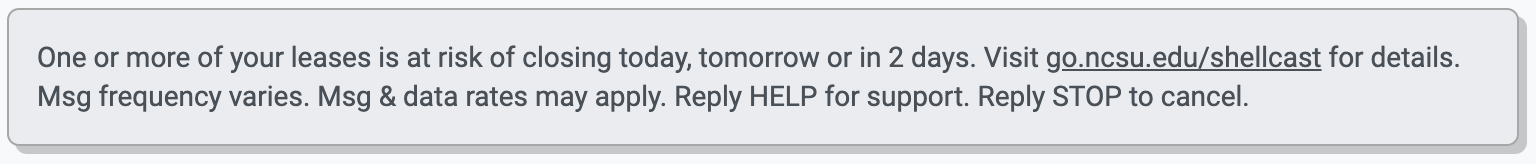
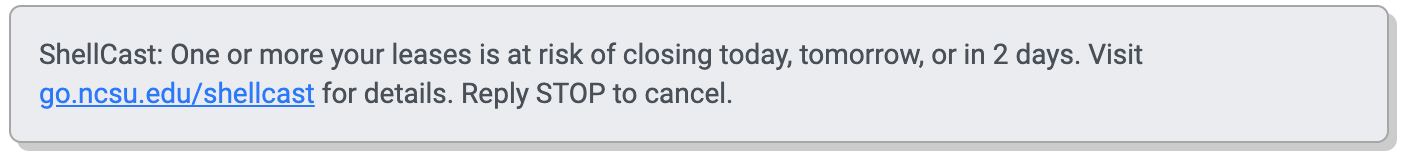
Update NC notification UI: fix image references and update templates
- Update notification preference images
- Fix typo in notification_text_opt-in.png filename
- Update notification-service.html and preferences.html templates
- Remove unused example_email_notification.png

Changed region(s): [[0.0, 0.1013, 1.0, 0.962], [0.0, 0.0253, 1.0, 0.1266]]

diff --git a/web/shellcast-web-nc/templates/preferences.html b/web/shellcast-web-nc/templates/preferences.html
@@ -84,11 +84,18 @@
                       <div class="form-check consent-checkbox">
                         <input class="form-check-input" type="checkbox" name="email-consent" id="email-consent" disabled>
                         <label class="form-check-label" for="email-consent">
-                          By providing my email address, I authorize ShellCast to send me email notifications 
-                          regarding lease closures, forecast information, maintenance updates, and other 
-                          ShellCast-related notifications. I understand that I may revoke this consent or 
-                          opt out at any time by clicking Unsubscribe in any email or by unchecking consent on 
-                          the ShellCast website.
+                          By submitting your email address, you consent to receiving email notifications 
+                          about lease closures and forecast information, maintenance updates, and other 
+                          ShellCast-related notifications from ShellCast.</br>
+                          <ul class="mb-0">
+                            <li>Message frequency may vary.</li>
+                            <li>You can opt out at any time by clicking <u>Unsubscribe</u> in any notification email or 
+                              update your preferences by visiting the <i>Preferences</i> page on the 
+                              <a href="https://ncsu-shellcast.appspot.com/">https://go.ncsu.edu/shellcast</a>.</li>
+                            <li>For assistance, contact us at <a href="mailto:[email redacted]">[email redacted]</a>.</li>
+                            <li>The <a href="/notification-service">Terms of Conditions and Privacy Policy</a> 
+                              are available for review.</li>
+                          </ul>
                         </label>
                       </div>
                       <small class="text-danger mt-2 d-block">
@@ -175,10 +182,19 @@
                       <div class="form-check consent-checkbox">
                         <input class="form-check-input" type="checkbox" name="text-consent" id="text-consent">
                         <label class="form-check-label" for="text-consent">
-                          By providing my mobile number, I authorize ShellCast to send me text message notifications 
-                          regarding lease closures and forecast information. Message and data rates may apply. 
-                          I understand that I may revoke this consent or opt out at any time by replying STOP or 
-                          by unchecking consent on the ShellCast website.
+                          By submitting your mobile phone number, you consent to receiving text 
+                          message notifications about lease closures and forecast information from ShellCast.
+                          <ul class="mb-0"> 
+                            <li>Consent is not a condition of purchase.</li>
+                            <li>Message frequency varies.</li>
+                            <li>Message and data rates may apply.</li>
+                            <li>For support, reply <b>HELP</b> or email us at <a href="mailto:[email redacted]">[email redacted]</a>.</li>
+                            <li>You can opt out at any time by replying <b>STOP</b> or update your preferences by 
+                              visiting the <i>Preferences</i> page on the 
+                              <a href="https://ncsu-shellcast.appspot.com/">https://go.ncsu.edu/shellcast</a>.</li>
+                            <li>The <a href="/notification-service">Terms of Conditions and Privacy Policy</a> 
+                              are available for review.</li>
+                          </ul> 
                         </label>
                       </div>
                     </div>
@@ -191,9 +207,9 @@
                       <label for="example-notification" class="form-label">Text Message Example:</label>
                       <div class="text-bubble" id="example-notification">
                         <p>
-                          One or more of your leases is at risk of closing today, tomorrow or in 2 days. Visit 
-                          <u>go.ncsu.edu/shellcast</u> for details. 
-                          Msg frequency varies. Msg & data rates may apply. Reply HELP for support. Reply STOP to cancel.
+                          ShellCast: One or more your leases is at risk of closing today, tomorrow, or in 2 days. 
+                          Visit <a href="https://ncsu-shellcast.appspot.com/">go.ncsu.edu/shellcast</a> for details. 
+                          Reply STOP to cancel.
                         </p>
                       </div>
                       <small class="form-text text-muted">

diff --git a/web/shellcast-web-nc/templates/notification-service.html b/web/shellcast-web-nc/templates/notification-service.html
@@ -36,7 +36,7 @@
                 email address, confirm consent, and save the settings. Users can opt-in to both options.
             </p>
             <h5>Opt-In Form Examples</h5>
-            <img src="{{ url_for('static', filename='img/preference/notificcation_text_opt-in.png') }}" alt="Text Message Opt-In" style="width: 90%; height: auto;">
+            <img src="{{ url_for('static', filename='img/preference/notification_text_opt-in.png') }}" alt="Text Message Opt-In" style="width: 90%; height: auto;">
             <img src="{{ url_for('static', filename='img/preference/notification_email_opt-in.png') }}" alt="Email Message Opt-In" style="width: 90%; height: auto;">
         </div>
             
@@ -99,8 +99,9 @@
         
         <h5>Help Message Example</h5>
         <p>
-            "Thank you for reaching out. Please emal <a href="mailto:[email redacted]"></a> for support.
-            Reply STOP to cancel."
+            "Thank you for reaching out to ShellCast. For support, please email us at 
+            <a href="mailto:[email redacted]">[email redacted]</a>.
+            Reply STOP to opt out."
         </p>
 
         <h3>5. Privacy Policy</h3>